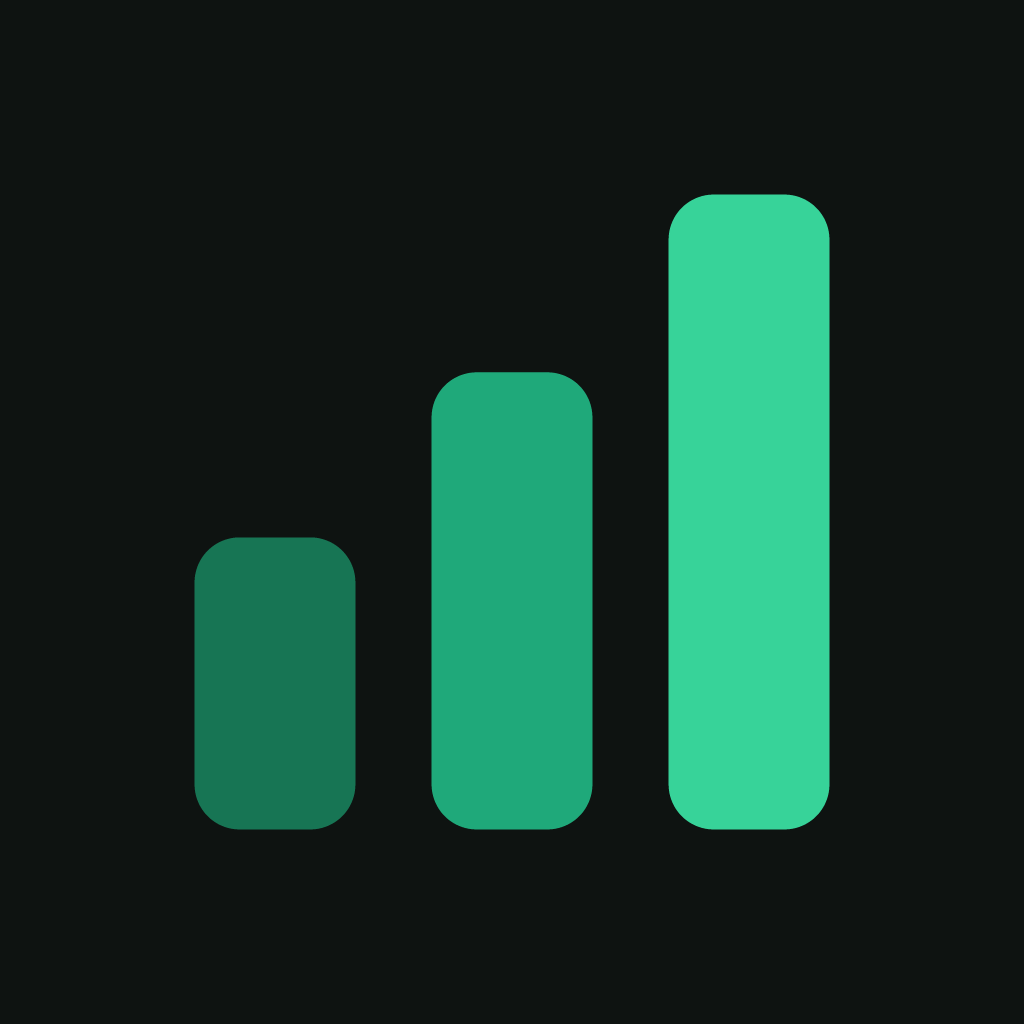
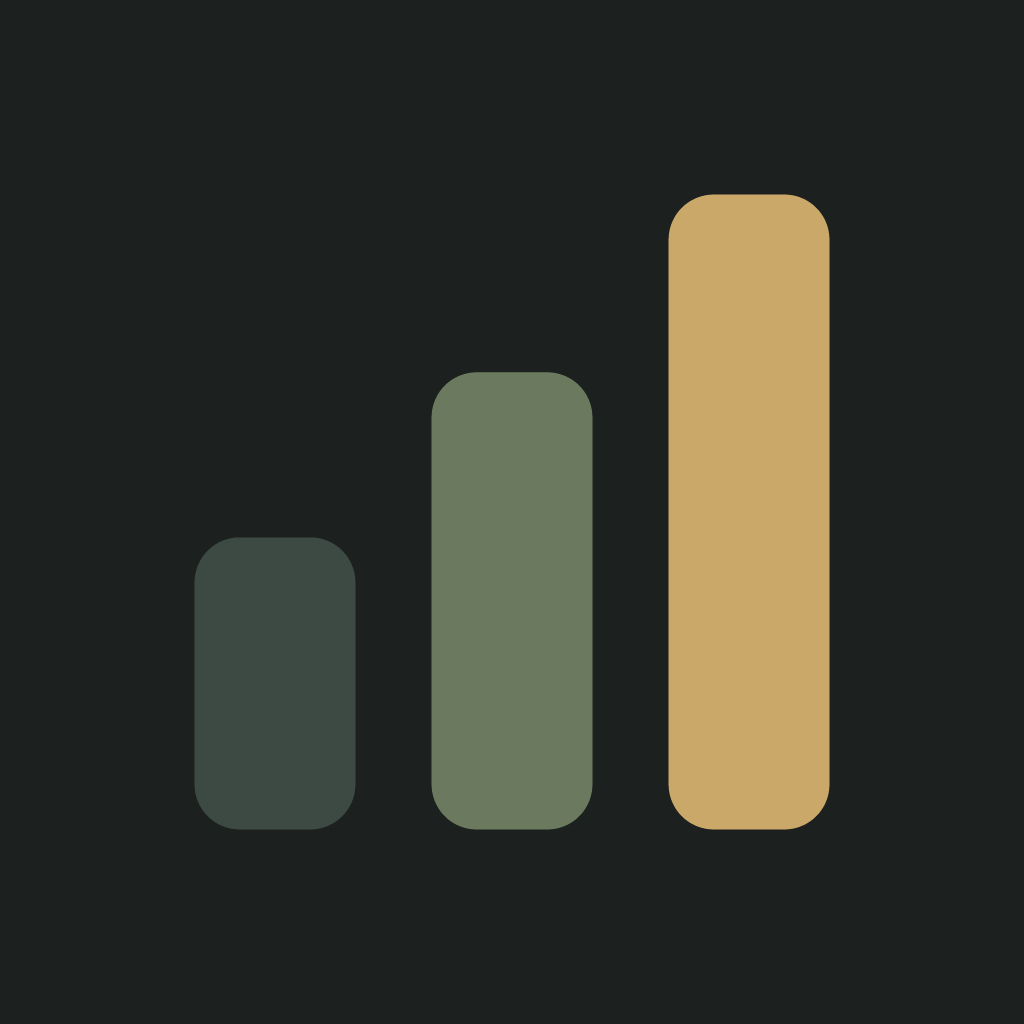
Put the app on the family palette, and free green to mean money
The app shipped its own system: #0E1311 with a felt green accent, against
BRAND.md's #1c211f with gold. A different accent hue, not a different
shade, which meant somebody scanning a card protector met a gold landing
page and reached a green app one tap later.

The reason to fix it in this direction rather than the other is not brand
tidiness, and it is measurable. The old accent sat two degrees of hue from
`profit`, so a control and a winning session were the same colour to
anybody glancing at the screen in a dim room, which is the condition this
app is designed for. Gold is 119 degrees away. Colour reserved for money
and mood was already the stated rule here; the accent was the one thing
breaking it.

It reads better too, rather than worse, which was the thing worth checking
before repainting anything: the accent goes from 6.3:1 to 7.2:1 on the
background, a primary button's label from 5.7:1 to 7.2:1, and secondary
text from 7.8:1 to 8.8:1. Body text drops from 17.1:1 to 12.9:1 and stays
well above AAA.

The tertiary moved in BRAND.md rather than only here. #7a8681 measured
4.32:1 on the ground, under the 4.5:1 small text needs, and it is the token
this app leans on hardest at forty-odd usages. #828e89 is 4.80:1 and is the
smallest nudge that clears it.

src/theme/__tests__/palette.test.ts parses BRAND.md's own table instead of
copying it, so the two cannot drift, and it asserts the hue separation and
[…]

Changed region(s): [[0.625, 0.1875, 0.8125, 0.8125], [0.4062, 0.3438, 0.5938, 0.8125], [0.1875, 0.5, 0.375, 0.8125]]

diff --git a/src/theme/__tests__/palette.test.ts b/src/theme/__tests__/palette.test.ts
@@ -1,0 +1,116 @@
+/**
+ * The palette is pinned to BRAND.md rather than to a copy of it.
+ *
+ * This test parses the family's own table and fails if `src/theme` drifts, so
+ * the shared identity survives somebody editing one file and not the other.
+ * That mattered enough to write down: the app shipped a felt-green accent and
+ * its own charcoal for a while, so a player scanning a card protector met a
+ * gold page and then a green app one tap later.
+ *
+ * The semantic colours are deliberately not pinned. Profit, loss and the tilt
+ * meter mean something rather than brand something, and BRAND.md does not
+ * define them.
+ */
+import { readFileSync } from 'node:fs';
+import { join } from 'node:path';
+
+import { colors } from '../index';
+
+const brand = readFileSync(join(__dirname, '..', '..', '..', 'BRAND.md'), 'utf8');
+
+/** Every `| Name | \`#hex\` | ... |` row of the palette table, lowercased. */
+const declared = new Map<string, string[]>(
+  [...brand.matchAll(/^\|\s*([A-Za-z]+)\s*\|\s*(`#[0-9a-fA-F]{6}`(?:\s*\/\s*`#[0-9a-fA-F]{6}`)?)\s*\|/gm)].map(
+    (row) => [row[1].toLowerCase(), [...row[2].matchAll(/#[0-9a-fA-F]{6}/g)].map((h) => h[0].toLowerCase())],
+  ),
+);
+
+const brandColor = (token: string, index = 0): string => {
+  const hexes = declared.get(token);
+  if (!hexes?.[index]) throw new Error(`BRAND.md declares no ${token}[${index}]`);
+  return hexes[index];
+};
+
+describe('the palette table parses', () => {
+  it('finds every token the app needs', () => {
+    expect([...declared.keys()].sort()).toEqual(
+      ['cream', 'forest', 'gold', 'ground', 'muted', 'rim', 'ring', 'sage'].sort(),
+    );
+  });
+});
+
+describe('the app implements the family palette', () => {
+  it.each([
+    ['background', 'ground', 0],
+    ['border', 'rim', 0],
+    ['surfaceActive', 'ring', 0],
+    ['borderStrong', 'forest', 0],
+    ['accent', 'gold', 0],
+    ['text', 'cream', 0],
+    ['textSecondary', 'muted', 0],
+    ['textTertiary', 'muted', 1],
+  ] as const)('%s is the brand %s', (token, brandToken, index) => {
+    expect(colors[token].toLowerCase()).toBe(brandColor(brandToken, index));
+  });
+
+  it('tints the accent from the gold rather than from anything else', () => {
+    expect(colors.accentMuted.toLowerCase().slice(0, 7)).toBe(brandColor('gold'));
+  });
+
+  it('puts the ground on the accent, so a gold button reads as one', () => {
+    expect(colors.accentText.toLowerCase()).toBe(brandColor('ground'));
+  });
+});
+
+describe('colour still means one thing', () => {
+  /** Relative luminance, per WCAG. */
+  const luminance = (hex: string): number => {
+    const channel = (v: number): number => {
+      const s = v / 255;
+      return s <= 0.03928 ? s / 12.92 : ((s + 0.055) / 1.055) ** 2.4;
+    };
+    const [r, g, b] = [1, 3, 5].map((i) => channel(parseInt(hex.slice(i, i + 2), 16)));
+    return 0.2126 * r + 0.7152 * g + 0.0722 * b;
+  };
+  const contrast = (a: string, b: string): number => {
+    const [hi, lo] = [luminance(a), luminance(b)].sort((x, y) => y - x);
+    return (hi + 0.05) / (lo + 0.05);
+  };
+  /** Hue in degrees, which is what tells a control apart from a result. */
+  const hue = (hex: string): number => {
+    const [r, g, b] = [1, 3, 5].map((i) => parseInt(hex.slice(i, i + 2), 16) / 255);
+    const max = Math.max(r, g, b);
+    const span = max - Math.min(r, g, b);
+    if (span === 0) return 0;
+    const raw =
+      max === r ? ((g - b) / span) % 6 : max === g ? (b - r) / span + 2 : (r - g) / span + 4;
+    return (raw * 60 + 360) % 360;
+  };
+  const apart = (a: string, b: string): number => {
+    const d = Math.abs(hue(a) - hue(b));
+    return Math.min(d, 360 - d);
+  };
+
+  it('keeps the accent well clear of the money colours', () => {
+    // It used to be two degrees from profit, so a control and an up session
+    // were the same colour at a glance. This is the assertion that regression
+    // would have to get past.
+    expect(apart(colors.accent, colors.profit)).toBeGreaterThan(60);
+    expect(apart(colors.accent, colors.loss)).toBeGreaterThan(30);
+  });
+
+  it.each([
+    ['text', 7],
+    ['textSecondary', 4.5],
+    ['textTertiary', 4.5],
+    ['accent', 4.5],
+    ['profit', 4.5],
+    ['loss', 4.5],
+  ] as const)('reads %s against the background', (token, floor) => {
+    expect(contrast(colors[token] as string, colors.background)).toBeGreaterThanOrEqual(floor);
+  });
+
+  it('reads the label on a primary button', () => {
+    expect(contrast(colors.accentText, colors.accent)).toBeGreaterThanOrEqual(4.5);
+  });
+});

diff --git a/src/theme/index.ts b/src/theme/index.ts
@@ -1,45 +1,62 @@
 /**
  * The Log design system.
  *
- * Dark, low-chroma charcoal with felt green as the single accent — the palette
- * the whole app family shares. The constraint that shapes it: this is read at a
- * poker table, often in dim light, one-handed, by someone who does not want to
- * look like they are studying a spreadsheet. So: high contrast, big targets,
- * almost no chrome, and colour reserved for money and mood.
+ * These are the family's tokens, not Log's own. `BRAND.md` is the source of
+ * truth and `src/theme/__tests__/palette.test.ts` parses it and fails if this
+ * file drifts from it, because a player who scans a card protector lands on
+ * log.poker/chip and reaches this app one tap later, and those two surfaces
+ * being different products is the whole thing the shared palette prevents.
+ *
+ * The constraint that shapes the rest: this is read at a poker table, often in
+ * dim light, one-handed, by someone who does not want to look like they are
+ * studying a spreadsheet. So high contrast, big targets, almost no chrome, and
+ * colour reserved for money and mood.
+ *
+ * Which is why the accent is gold rather than the felt green it was. Green is
+ * what a win is. The old accent sat two degrees of hue from `profit`, so a
+ * control and an up session were the same colour to anybody glancing at the
+ * screen; gold is 119 degrees away and leaves green meaning money and nothing
+ * else. It reads better too, at 7.2:1 on the background against the 6.3:1 it
+ * replaced.
  */
 
 export const colors = {
-  /** Page background — near-black with a green cast, not pure #000. */
-  background: '#0E1311',
+  /** Page background. The family ground: charcoal with a green cast. */
+  background: '#1c211f',
   /** Cards and sheets. */
-  surface: '#161D1A',
+  surface: '#232a27',
   /** Raised elements on a surface: inputs, chips. */
-  surfaceRaised: '#1F2926',
-  /** Pressed / selected state. */
-  surfaceActive: '#2A3733',
-  border: '#2A3733',
-  borderStrong: '#3A4A45',
+  surfaceRaised: '#2b332f',
+  /** Pressed / selected state. The brand's ring. */
+  surfaceActive: '#333f39',
+  /** The brand's rim. */
+  border: '#2e3a35',
+  /** The brand's forest, which is also the mark's outer stroke. */
+  borderStrong: '#3d4a44',
 
-  /** Felt green — the family accent. */
-  accent: '#1FA97A',
-  accentMuted: '#17755480',
-  accentDim: '#0F3D2E',
-  accentText: '#062018',
+  /** Gold — the family accent, and never a semantic. */
+  accent: '#c9a86a',
+  accentMuted: '#c9a86a80',
+  accentDim: '#3a3323',
+  accentText: '#1c211f',
 
-  text: '#F2F5F4',
-  textSecondary: '#9DAAA5',
-  textTertiary: '#6B7A75',
+  text: '#e8e4da',
+  textSecondary: '#b7c0ba',
+  textTertiary: '#828e89',
 
-  /** Money. Green for up, a warm red for down — never for anything else. */
+  /**
+   * Money. Green for up, a warm red for down — never for anything else, which
+   * is a promise the accent used to break and now keeps.
+   */
   profit: '#37D399',
   loss: '#F0616B',
-  neutral: '#9DAAA5',
+  neutral: '#b7c0ba',
 
-  /** Tilt meter, 1 (calm) → 5 (tilted). */
+  /** Tilt meter, 1 (calm) → 5 (tilted). Semantic, so it stays as it was. */
   mood: ['#37D399', '#8FD16A', '#E8C55C', '#F0964E', '#F0616B'] as const,
 
   danger: '#F0616B',
-  overlay: 'rgba(6, 10, 9, 0.82)',
+  overlay: 'rgba(12, 15, 14, 0.84)',
 } as const;
 
 /** 4pt grid. Names describe intent so screens stay consistent. */

diff --git a/app/+html.tsx b/app/+html.tsx
@@ -31,7 +31,7 @@ if ('serviceWorker' in navigator) {
  * connection shows Log's charcoal rather than a white flash.
  */
 const BASE_STYLE = `
-html, body, #root { background-color: #0E1311; }
+html, body, #root { background-color: #1c211f; }
 body { overscroll-behavior-y: none; }
 #root { display: flex; flex: 1 1 auto; min-height: 100%; }
 `;
@@ -55,7 +55,7 @@ export default function Root({ children }: { children: ReactNode }) {
             first — which is the manager's. */}
 
         <link rel="manifest" href="/manifest.webmanifest" />
-        <meta name="theme-color" content="#0E1311" />
+        <meta name="theme-color" content="#1c211f" />
         <meta name="color-scheme" content="dark" />
 
         <meta name="apple-mobile-web-app-capable" content="yes" />

diff --git a/public/sw.js b/public/sw.js
@@ -114,7 +114,7 @@ const networkFirstShell = async (request) => {
     const cached = (await cache.match(SHELL_URL)) ?? (await cache.match('/'));
     if (cached) return cached;
     return new Response(
-      '<!doctype html><meta charset="utf-8"><title>Log</title><body style="background:#0E1311;color:#F2F5F4;font-family:system-ui;padding:2rem"><h1>Log</h1><p>Open Log once while online and it will work offline from then on.</p></body>',
+      '<!doctype html><meta charset="utf-8"><title>Log</title><body style="background:#1c211f;color:#e8e4da;font-family:system-ui;padding:2rem"><h1>Log</h1><p>Open Log once while online and it will work offline from then on.</p></body>',
       { headers: { 'Content-Type': 'text/html; charset=utf-8' }, status: 200 },
     );
   }

diff --git a/public/chip.html b/public/chip.html
@@ -50,7 +50,7 @@
         --forest: #3d4a44;
         --cream: #e8e4da;
         --muted: #b7c0ba;
-        --dim: #7a8681;
+        --dim: #828e89;
         --serif: Georgia, "Times New Roman", "Nimbus Roman", serif;
         --sans: -apple-system, BlinkMacSystemFont, "Segoe UI", Roboto, "Helvetica Neue", Arial, sans-serif;
         color-scheme: dark;

diff --git a/README.md b/README.md
@@ -200,6 +200,28 @@ just looked at the object, and the object is charcoal and gold. See `BRAND.md`.
 
 ---
 
+## The palette
+
+`src/theme` implements the family's tokens rather than its own, and
+`src/theme/__tests__/palette.test.ts` parses the table in `BRAND.md` and fails
+if the two drift. That is worth a test because the failure mode is silent and
+embarrassing: a player scans a card protector, lands on `/chip`, and reaches the
+app one tap later, so the two surfaces being visibly different products is the
+exact thing the shared palette exists to prevent.
+
+**The accent is gold, and it used to be felt green.** The reason is not brand
+tidiness — the old accent sat *two degrees of hue* from `profit`, so a control
+and a winning session were the same colour to anybody glancing at the screen in
+a dim room. Gold is 119 degrees away, which leaves green meaning money and
+nothing else, and it reads better besides: 7.2:1 on the background against the
+6.3:1 it replaced. The test asserts both the hue separation and the contrast
+floors, so neither can quietly come back.
+
+Semantic colours — profit, loss, the tilt meter — are deliberately *not* pinned
+to `BRAND.md`. They mean something rather than brand something.
+
+---
+
 ## Architecture
 
 ```

diff --git a/BRAND.md b/BRAND.md
@@ -32,12 +32,23 @@ is printed.** See [Open items](#open-items).
 | Sage | `#6b7a5e` | The mark's middle stroke |
 | Forest | `#3d4a44` | The mark's outer stroke |
 | Cream | `#e8e4da` | Body text |
-| Muted | `#b7c0ba` / `#7a8681` | Secondary and tertiary text |
+| Muted | `#b7c0ba` / `#828e89` | Secondary and tertiary text |
 
 Serif in the Georgia class for wordmarks and headers, a clean sans for UI.
 
 The category is full of cluttered apps. Restraint is the differentiator, which
 means the gold is worth more the less of it there is.
+
+**The tertiary was `#7a8681` and is now `#828e89`.** It measured 4.32:1 on the
+ground, under the 4.5:1 that small text needs, and it is the token Log leans on
+hardest at forty-odd usages. The new value is 4.80:1 and is the smallest nudge
+that clears it.
+
+**Log implements this palette**, and `src/theme/__tests__/palette.test.ts`
+parses the table above and fails if the app drifts from it. Somebody who scans
+a card protector lands on `/chip` and reaches the app one tap later, and the two
+being visibly different products is the thing this table exists to prevent.
+Untilt and TiltProof have not been brought across yet.
 
 ---
 
